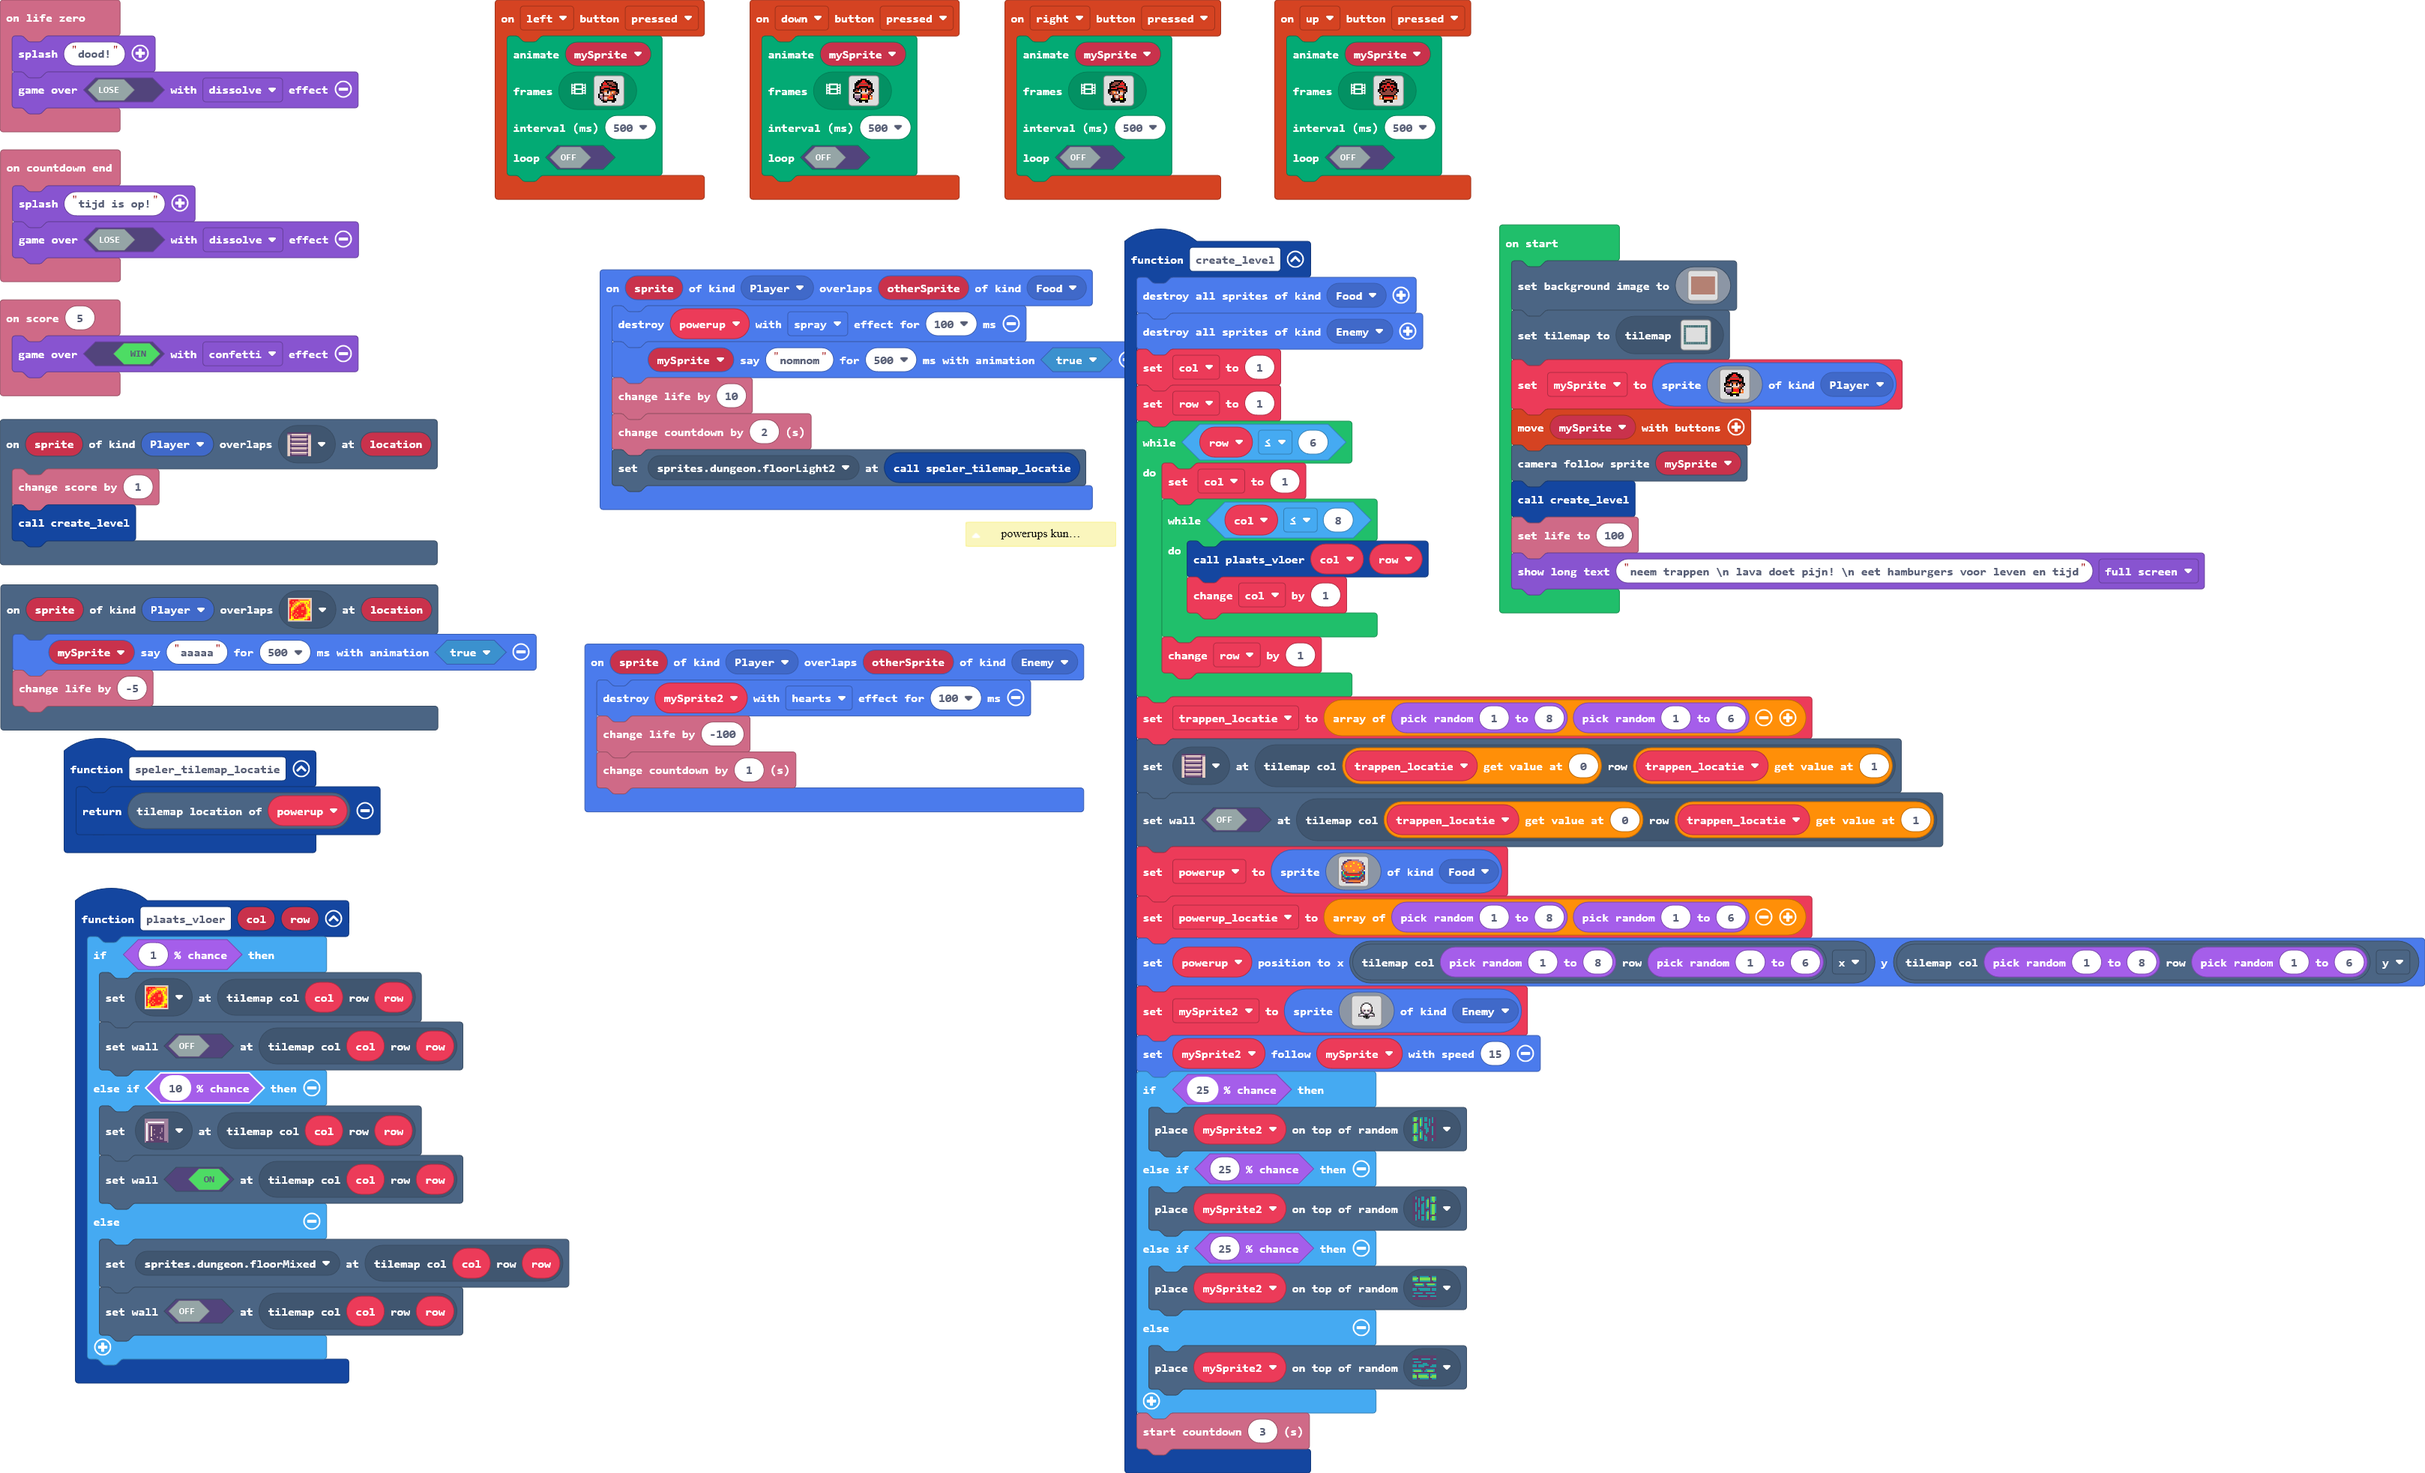
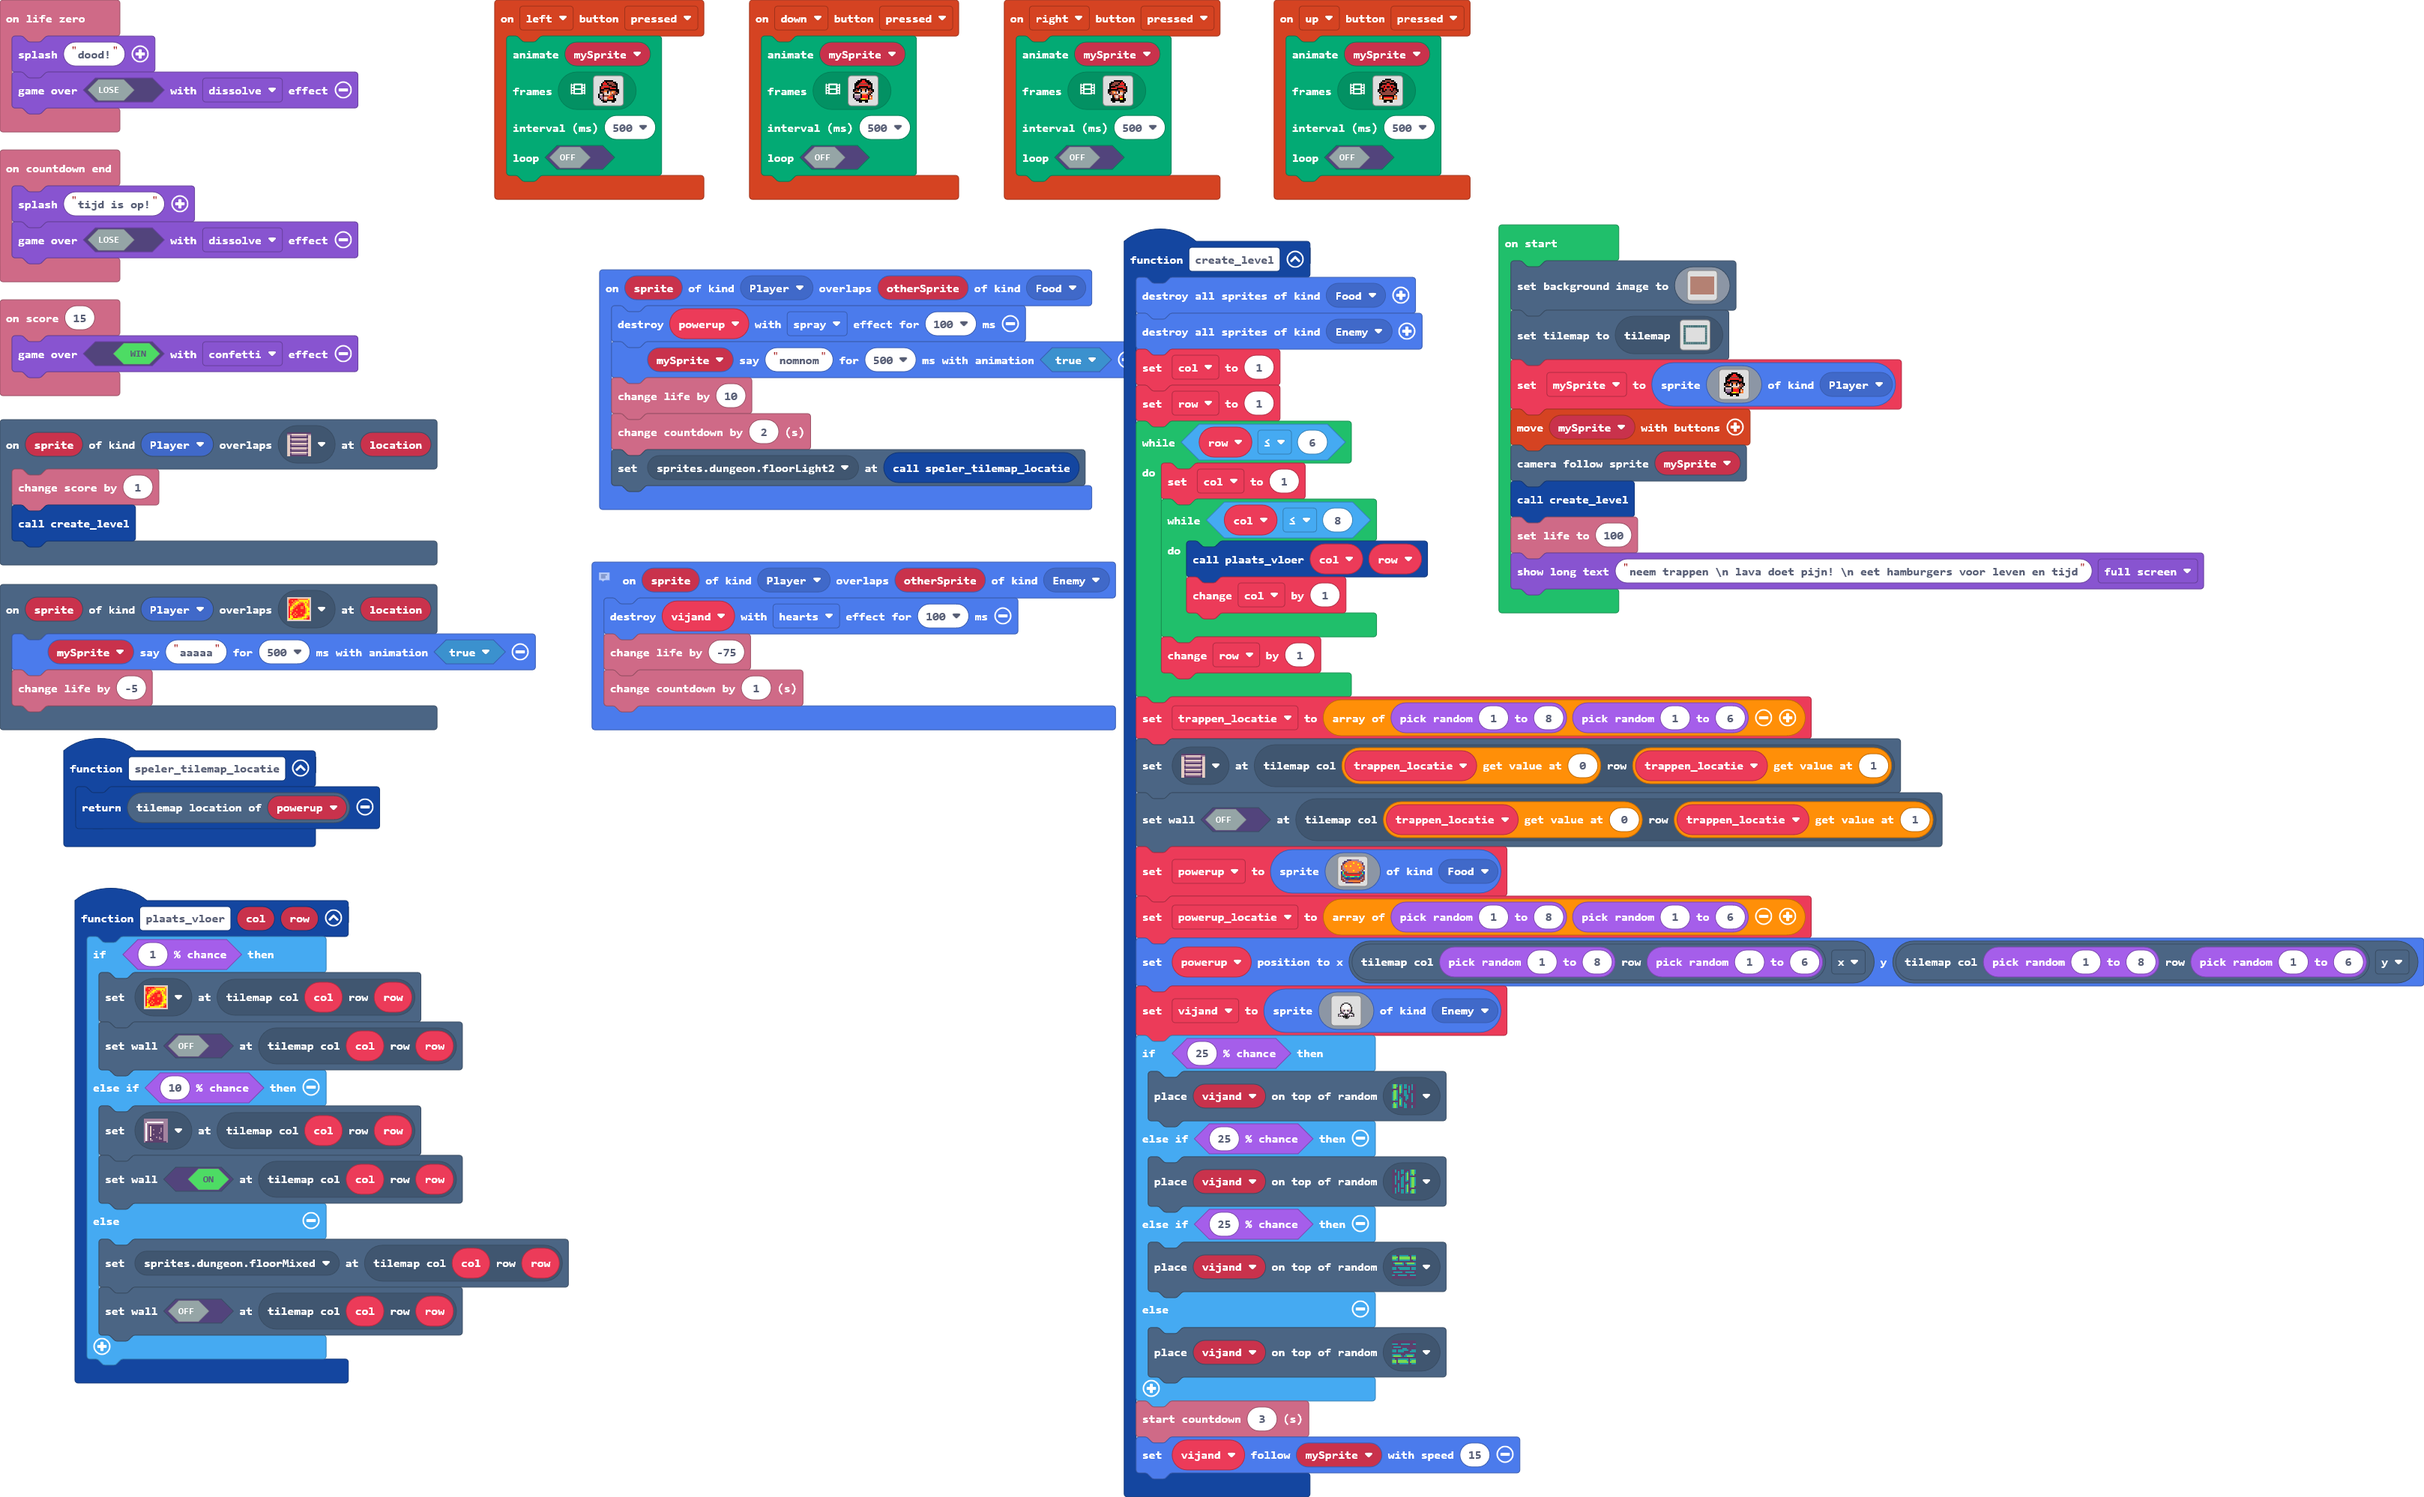
geen idee wat ik gedaan heb

diff --git a/main.ts b/main.ts
@@ -82,6 +82,9 @@ scene.onOverlapTile(SpriteKind.Player, assets.tile`myTile`, function (sprite, lo
     mySprite.sayText("aaaaa", 500, true)
     info.changeLifeBy(-5)
 })
+info.onScore(15, function () {
+    game.over(true, effects.confetti)
+})
 controller.left.onEvent(ControllerButtonEvent.Pressed, function () {
     animation.runImageAnimation(
     mySprite,
@@ -357,7 +360,7 @@ function create_level () {
         `, SpriteKind.Food)
     powerup_locatie = [randint(1, 8), randint(1, 6)]
     powerup.setPosition(tiles.getTileLocation(randint(1, 8), randint(1, 6)).x, tiles.getTileLocation(randint(1, 8), randint(1, 6)).y)
-    mySprite2 = sprites.create(img`
+    vijand = sprites.create(img`
         ........................
         ........................
         ........................
@@ -383,17 +386,17 @@ function create_level () {
         ........................
         ........................
         `, SpriteKind.Enemy)
-    mySprite2.follow(mySprite, 15)
     if (Math.percentChance(25)) {
-        tiles.placeOnRandomTile(mySprite2, sprites.dungeon.greenOuterWest1)
+        tiles.placeOnRandomTile(vijand, sprites.dungeon.greenOuterWest1)
     } else if (Math.percentChance(25)) {
-        tiles.placeOnRandomTile(mySprite2, sprites.dungeon.greenOuterEast0)
+        tiles.placeOnRandomTile(vijand, sprites.dungeon.greenOuterEast0)
     } else if (Math.percentChance(25)) {
-        tiles.placeOnRandomTile(mySprite2, sprites.dungeon.greenOuterNorth0)
+        tiles.placeOnRandomTile(vijand, sprites.dungeon.greenOuterNorth0)
     } else {
-        tiles.placeOnRandomTile(mySprite2, sprites.dungeon.greenOuterSouth0)
+        tiles.placeOnRandomTile(vijand, sprites.dungeon.greenOuterSouth0)
     }
     info.startCountdown(3)
+    vijand.follow(mySprite, 15)
 }
 sprites.onOverlap(SpriteKind.Player, SpriteKind.Food, function (sprite, otherSprite) {
     powerup.destroy(effects.spray, 100)
@@ -401,9 +404,6 @@ sprites.onOverlap(SpriteKind.Player, SpriteKind.Food, function (sprite, otherSpr
     info.changeLifeBy(10)
     info.changeCountdownBy(2)
     tiles.setTileAt(speler_tilemap_locatie(), sprites.dungeon.floorLight2)
-})
-info.onScore(5, function () {
-    game.over(true, effects.confetti)
 })
 function plaats_vloer (col: number, row: number) {
     if (Math.percentChance(1)) {
@@ -417,15 +417,13 @@ function plaats_vloer (col: number, row: number) {
         tiles.setWallAt(tiles.getTileLocation(col, row), false)
     }
 }
-/**
- * powerups kunnen nog overal spawnen, mag enkel op vloer met niets op
- */
+// powerups kunnen nog overal spawnen, mag enkel op vloer met niets op
 sprites.onOverlap(SpriteKind.Player, SpriteKind.Enemy, function (sprite, otherSprite) {
-    mySprite2.destroy(effects.hearts, 100)
-    info.changeLifeBy(-100)
+    vijand.destroy(effects.hearts, 100)
+    info.changeLifeBy(-75)
     info.changeCountdownBy(1)
 })
-let mySprite2: Sprite = null
+let vijand: Sprite = null
 let powerup_locatie: number[] = []
 let trappen_locatie: number[] = []
 let row = 0
